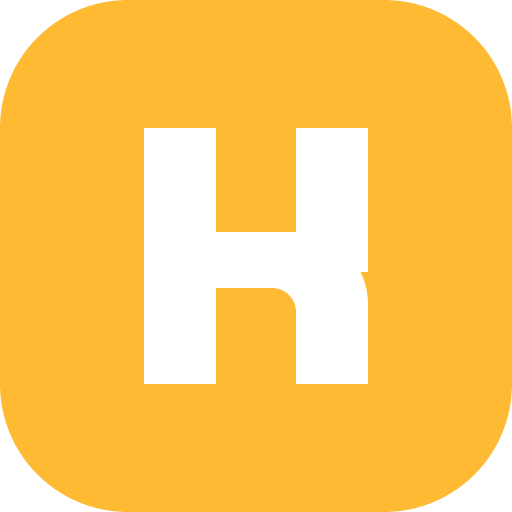
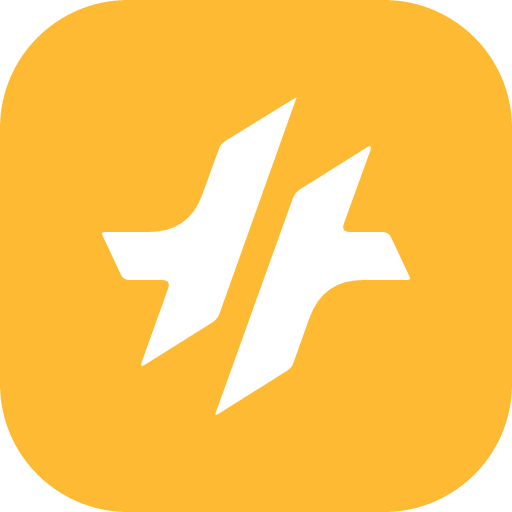
feat(brand): new H mark, two leaning strokes with sharp tips
- The glyph is an H in two leaning strokes whose arms share one crossbar line, point-symmetric, with sharp tips for speed.
- LogoMark, favicon.svg and every file in docs/brand (logos, share image, app icons) use it; og-image.png and apple-touch-icon.png in public are regenerated.
- A test holds LogoMark and favicon.svg to the same paths.

Changed region(s): [[0.1875, 0.1875, 0.8125, 0.8125]]

diff --git a/frontend/test/ui.test.tsx b/frontend/test/ui.test.tsx
@@ -1,10 +1,12 @@
+import { readFileSync } from 'node:fs';
+import { resolve } from 'node:path';
 import { act } from 'react';
 import { createRoot, type Root } from 'react-dom/client';
 import { Link, MemoryRouter, NavigationType, Route, Routes, useNavigate } from 'react-router';
 import { ScrollToTop, shouldResetScroll } from '@/components/ScrollToTop';
 import { afterEach, beforeEach, describe, expect, it, vi } from 'vitest';
 import { HabitBubble } from '@/components/icons';
-import { AppShell, Logo } from '@/components/Shells';
+import { AppShell, Logo, LogoMark } from '@/components/Shells';
 import { ConfirmDialog, TextArea, TextField } from '@/components/ui';
 import './support';
 
@@ -154,6 +156,14 @@ describe('logo', () => {
     expect(container.textContent).toBe('Habit Shaper');
     const classes = [...container.querySelectorAll('*')].flatMap((element) => [...element.classList]);
     expect(classes.filter((name) => name.startsWith('text-brand'))).toEqual([]);
+  });
+
+  it('draws the same glyph as the favicon', () => {
+    act(() => root.render(<LogoMark />));
+    const drawn = [...container.querySelectorAll('path')].map((path) => path.getAttribute('d'));
+    const favicon = readFileSync(resolve(process.cwd(), 'public/favicon.svg'), 'utf8');
+    expect(drawn).toHaveLength(2);
+    expect([...favicon.matchAll(/ d="([^"]+)"/g)].map((match) => match[1])).toEqual(drawn);
   });
 });
 

diff --git a/frontend/src/components/Shells.tsx b/frontend/src/components/Shells.tsx
@@ -9,8 +9,8 @@ export function LogoMark({ className = 'size-10' }: { className?: string }) {
   return (
     <svg viewBox="0 0 64 64" className={className} aria-hidden>
       <rect width="64" height="64" rx="16" className="fill-brand" />
-      <path fill="#fff" d="M18 16h9v13h10a9 9 0 0 1 9 9v10h-9V39a3 3 0 0 0-3-3h-7v12h-9z" />
-      <path fill="#fff" d="M37 16h9v18h-9z" />
+      <path fill="#fff" d="M36.8 12.3Q37.2 12 37 12.4L27.4 39.3Q27.1 40 26.4 40.4L18.1 45.6Q17.5 46 17.7 45.3L21 36.1Q21.4 35 20.2 35L16.2 35Q15.4 35 15.1 34.3L12.8 29.4Q12.6 29 13.1 29L18.6 29Q23.6 29 25.3 24.3L27.3 18.8Q27.5 18 28.2 17.6Z" />
+      <path fill="#fff" d="M27.2 51.8Q26.8 52 27 51.5L36.6 24.8Q36.9 24 37.6 23.6L45.9 18.4Q46.5 18 46.3 18.8L43 27.9Q42.6 29 43.8 29L47.8 29Q48.6 29 48.9 29.7L51.2 34.6Q51.4 35 50.9 35L45.4 35Q40.4 35 38.7 39.7L36.7 45.3Q36.5 46 35.8 46.4Z" />
     </svg>
   );
 }

diff --git a/docs/brand/guidelines.html b/docs/brand/guidelines.html
@@ -242,7 +242,7 @@
     <div class="head">
       <span class="eyebrow">Logo</span>
       <h2>A yellow tile, a white glyph</h2>
-      <p class="lede">Drawn on a 64-unit grid with a 16-unit corner. The wordmark is Urbanist: “Habit” at 600, “Shaper” at 800. On white it is ink throughout and the tile carries the colour.</p>
+      <p class="lede">Drawn on a 64-unit grid with a 16-unit corner: an H in two leaning strokes whose arms share one crossbar line, sharp at the tips for speed. The wordmark is Urbanist: “Habit” at 600, “Shaper” at 800. On white it is ink throughout and the tile carries the colour.</p>
     </div>
     <div class="grid g3">
       <figure class="asset"><div class="ground g-white"><img src="logo/horizontal.svg" alt="Horizontal lockup on white"></div><figcaption><b>horizontal.svg</b><span>white, canvas</span></figcaption></figure>

diff --git a/docs/brand/README.md b/docs/brand/README.md
@@ -27,7 +27,9 @@ Always "Habit Shaper", two words, both capitalised. Not "HabitShaper",
 ## Logo
 
 The mark is a white glyph on a yellow tile, drawn on a 64-unit grid with a
-16-unit corner radius. `LogoMark` in `frontend/src/components/Shells.tsx` and
+16-unit corner radius. The glyph is an H in two leaning strokes, each with an
+arm reaching out along one crossbar line, turned half a circle onto each
+other; its tips are sharp for speed, the one place the brand is not round. `LogoMark` in `frontend/src/components/Shells.tsx` and
 `frontend/public/favicon.svg` draw the same paths; change all three together
 (`logo/*.svg` are generated from the same numbers).
 
